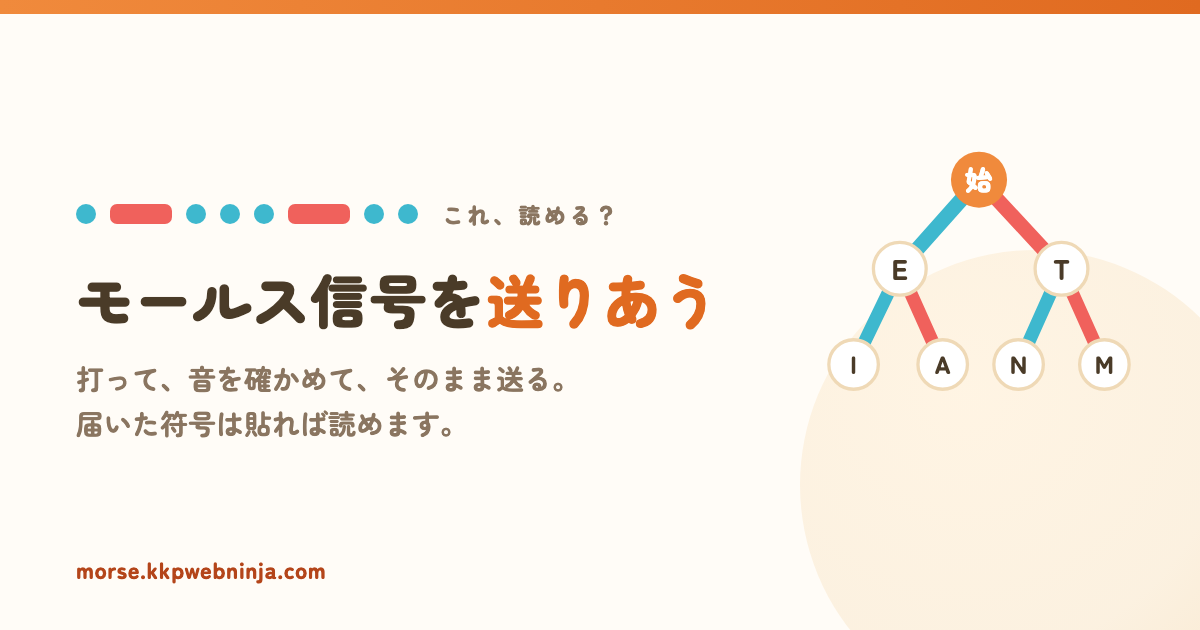
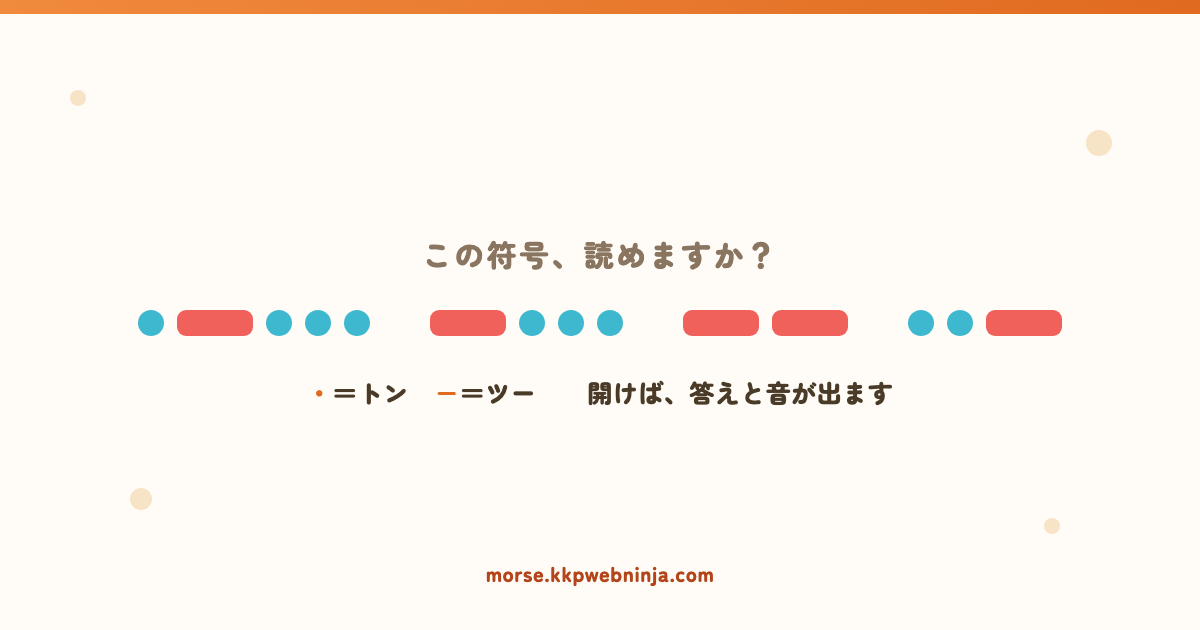
リンクを見た人が「なに？」と思う形にした
説明しすぎていた。カードに「打って、送って、読める」と書いてあると
中身が分かってしまい、開く理由がなくなる。謎かけとして成立させる。

- OGP画像を符号そのものにした。答えは書かず「この符号、読めますか？」と
  問いかけるだけ。ただし読めない不快感で終わらせないよう、
  「・＝トン －＝ツー」のヒントを1つだけ添えて「解けそう」にする
- タイトルも「この符号、読めますか？」を先頭に
- 投稿本文から説明を削り、符号を主役にした

開いた先では、届いた符号・訳・音・「自分でも打ってみる」が最初の画面に
そろっているので、「なるほど」から「やってみる」まで途切れない。

diff --git a/index.html b/index.html
@@ -20,14 +20,14 @@
 <meta name="description" content="点と線をタップすると分岐をたどって文字が決まる、モールス信号の学習ツール。A〜Zがなぜその形なのかが木で一目で分かります。表引き・逆引き・和文の一覧つき。無料・登録不要。">
 <link rel="canonical" href="https://morse.kkpwebninja.com/">
 <meta property="og:type" content="website">
-<meta property="og:title" content="モールス信号を送りあう｜打って、送って、読めるページ">
-<meta property="og:description" content="点と線をたどるだけで文字が決まります。電鍵で打って、音を確かめて、XやLINEでそのまま送れます。届いた符号はこのページに貼れば読めます。">
+<meta property="og:title" content="この符号、読めますか？｜モールス信号を送りあう">
+<meta property="og:description" content="開くと、届いた符号がその場で文になります。信号音も鳴らせて、そのまま返事も作れます。点と線をたどるだけの分岐表つき。">
 <meta property="og:url" content="https://morse.kkpwebninja.com/">
 <link rel="icon" type="image/png" sizes="32x32" href="/favicon.png">
 <link rel="icon" type="image/png" sizes="192x192" href="/favicon-192.png">
 <link rel="apple-touch-icon" sizes="180x180" href="/apple-touch-icon.png">
 <meta property="og:site_name" content="モールス信号の分岐表">
-<meta property="og:image" content="https://morse.kkpwebninja.com/ogp.png?v=20260904c">
+<meta property="og:image" content="https://morse.kkpwebninja.com/ogp.png?v=20260904d">
 <meta name="twitter:card" content="summary_large_image">
 <meta name="twitter:image" content="https://morse.kkpwebninja.com/ogp.png">
 <script type="application/ld+json">
@@ -795,7 +795,7 @@ function renderRev(){
   const symbols = lastMorse.replace(/__/g, ' / ').replace(/_/g, ' ').replace(/\./g, '・').replace(/-/g, '－');
   // Xは280字まで。URLは何文字でも23字として数えられる。長い文だと符号だけで
   // 溢れるので、本文に載せる符号は入るぶんだけにして、残りはリンクに任せる。
-  const TAIL = '\n\nこれ、読める？　↓を開くと答えと音が出ます。\n読めたら返事もモールスで。\n#モールス信号';
+  const TAIL = '\n\nモールス信号です。読めますか？\n（・＝トン　－＝ツー）\n#モールス信号';
   const room = 280 - 23 - 1 - TAIL.length;
   const shown = symbols.length <= room ? symbols : symbols.slice(0, Math.max(0, room - 1)).replace(/[\s/]+$/, '') + '…';
   const txt = shown + TAIL;
@@ -809,7 +809,7 @@ function renderRev(){
   $('shX').href = 'https://twitter.com/intent/tweet?text=' + encodeURIComponent(txt)
                 + '&url=' + encodeURIComponent(shareUrl(lastMorse, lastWa)) + '&via=kkp_webninja';
   $('shL').href = 'https://social-plugins.line.me/lineit/share?url=' + encodeURIComponent(shareUrl(lastMorse, lastWa))
-                + '&text=' + encodeURIComponent(symbols + '\nこれ、読める？　↓を開くと答えと音が出ます');
+                + '&text=' + encodeURIComponent(symbols + '\nモールス信号です。読めますか？');
 }
 
 
